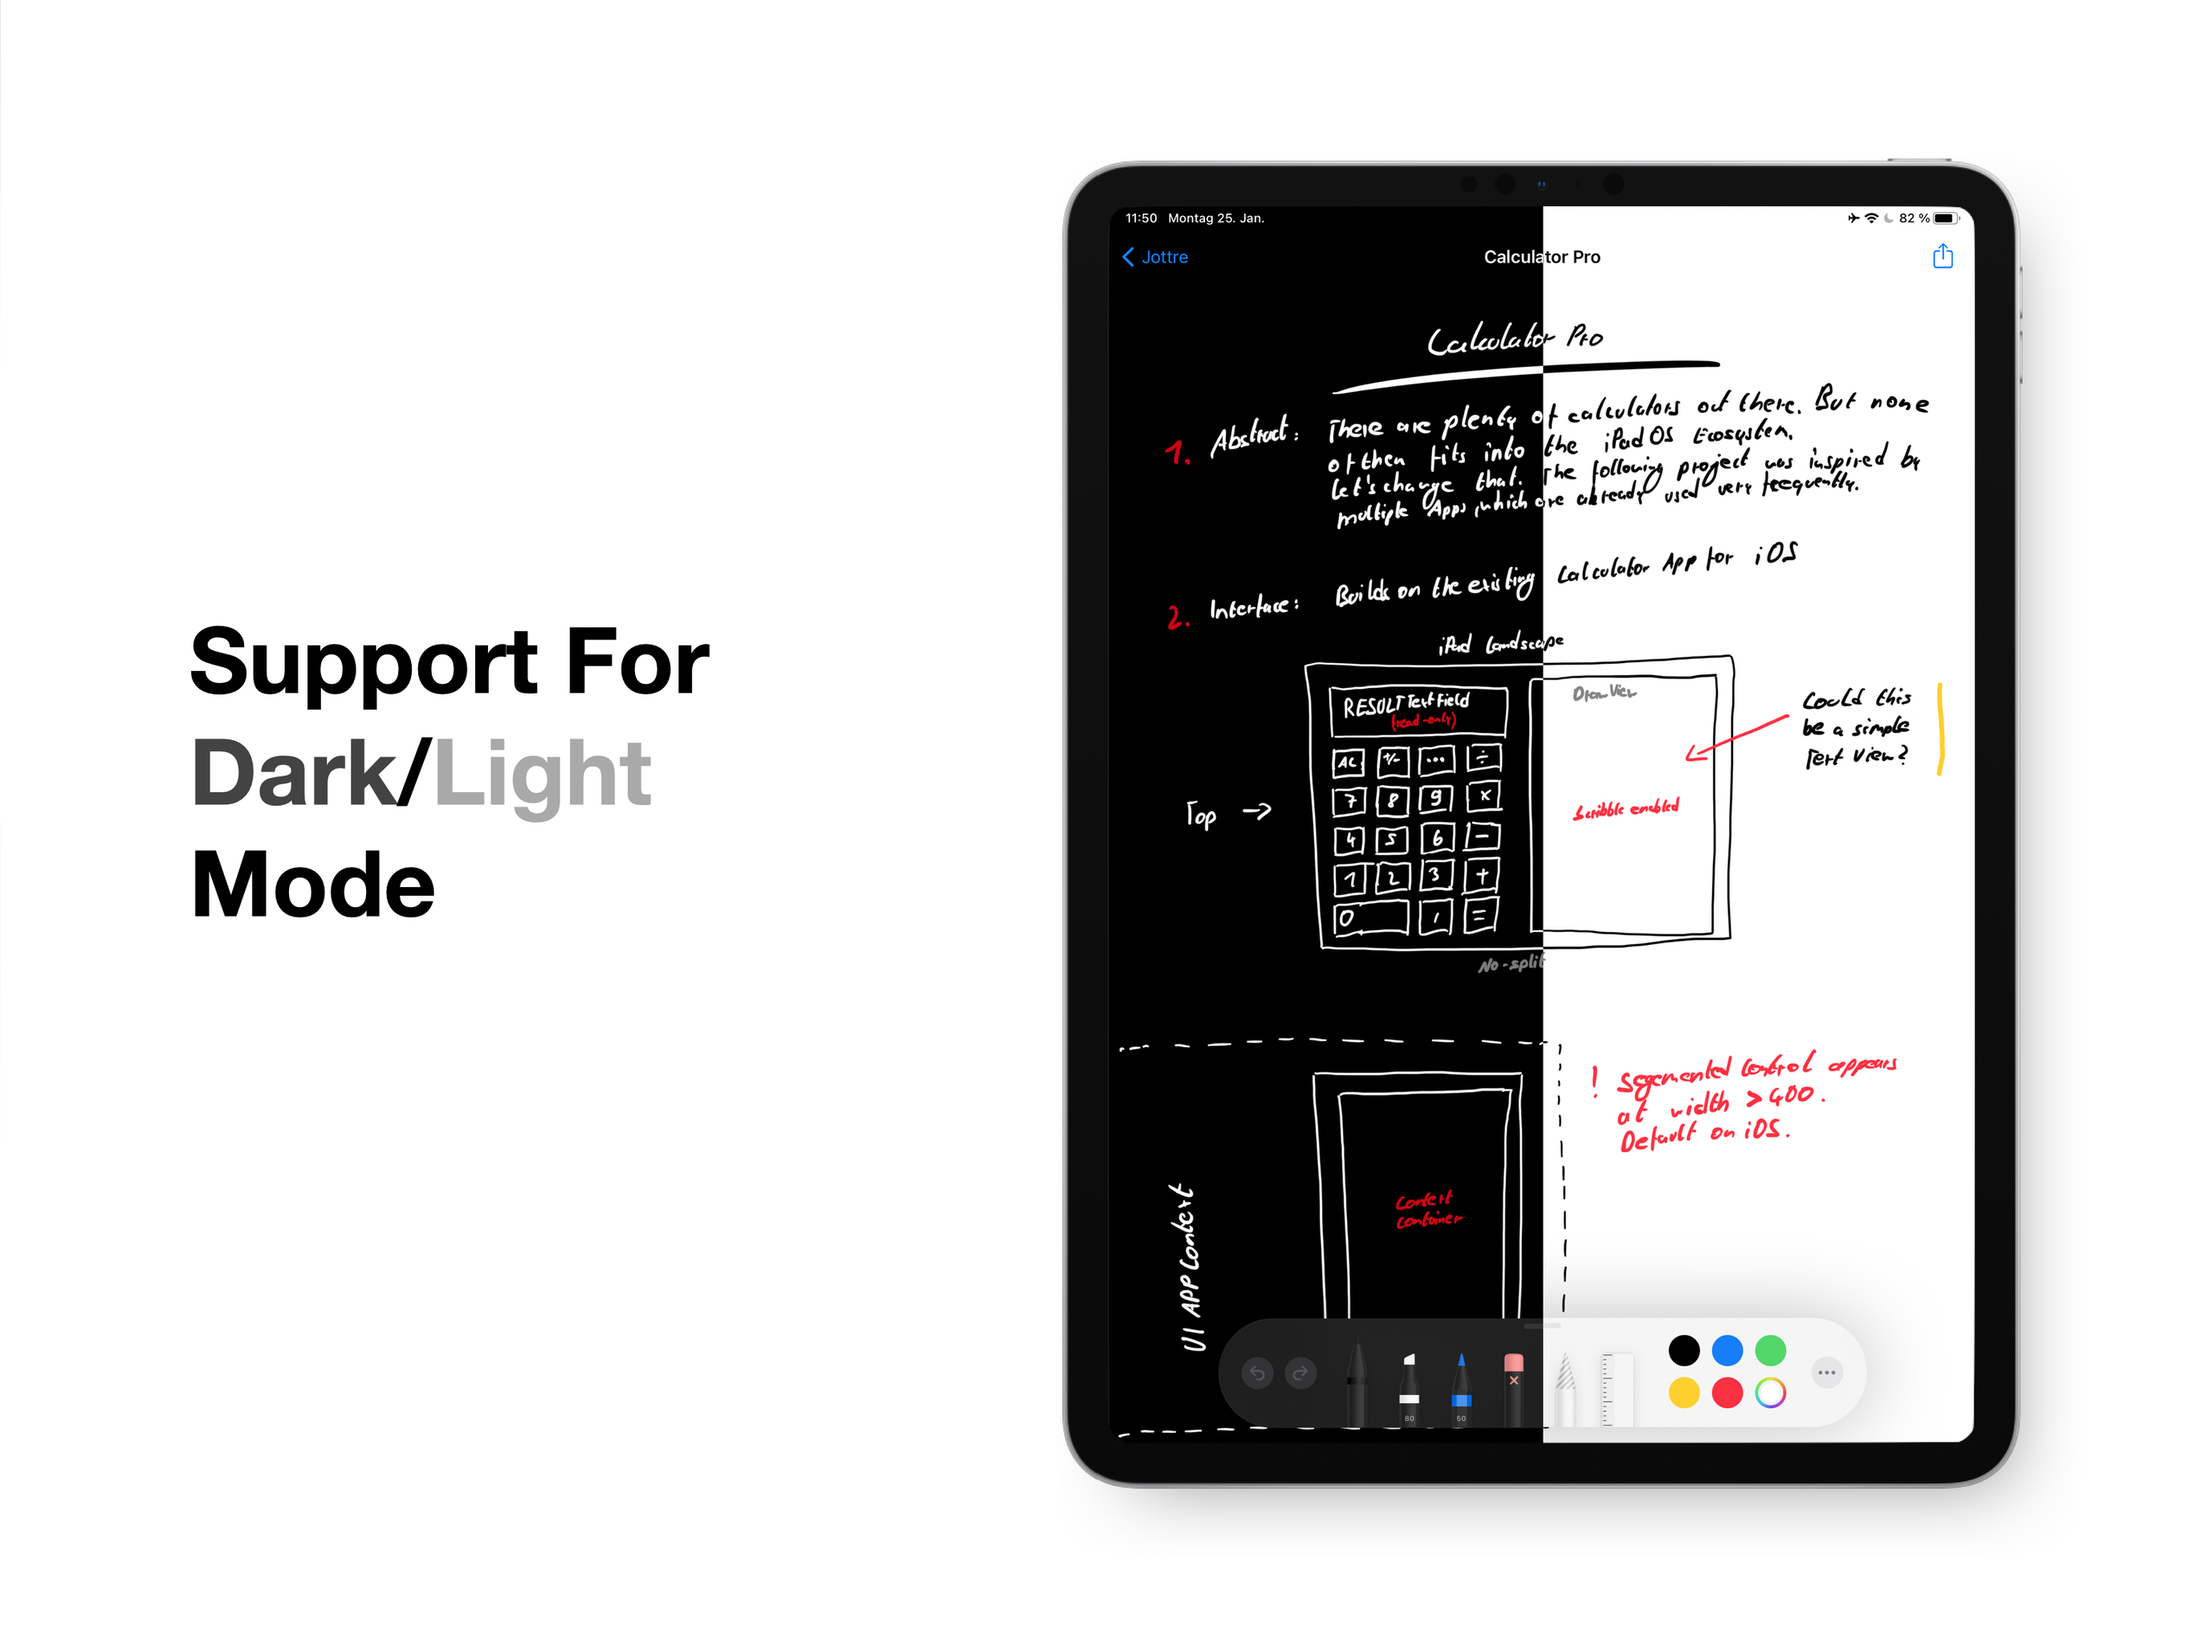
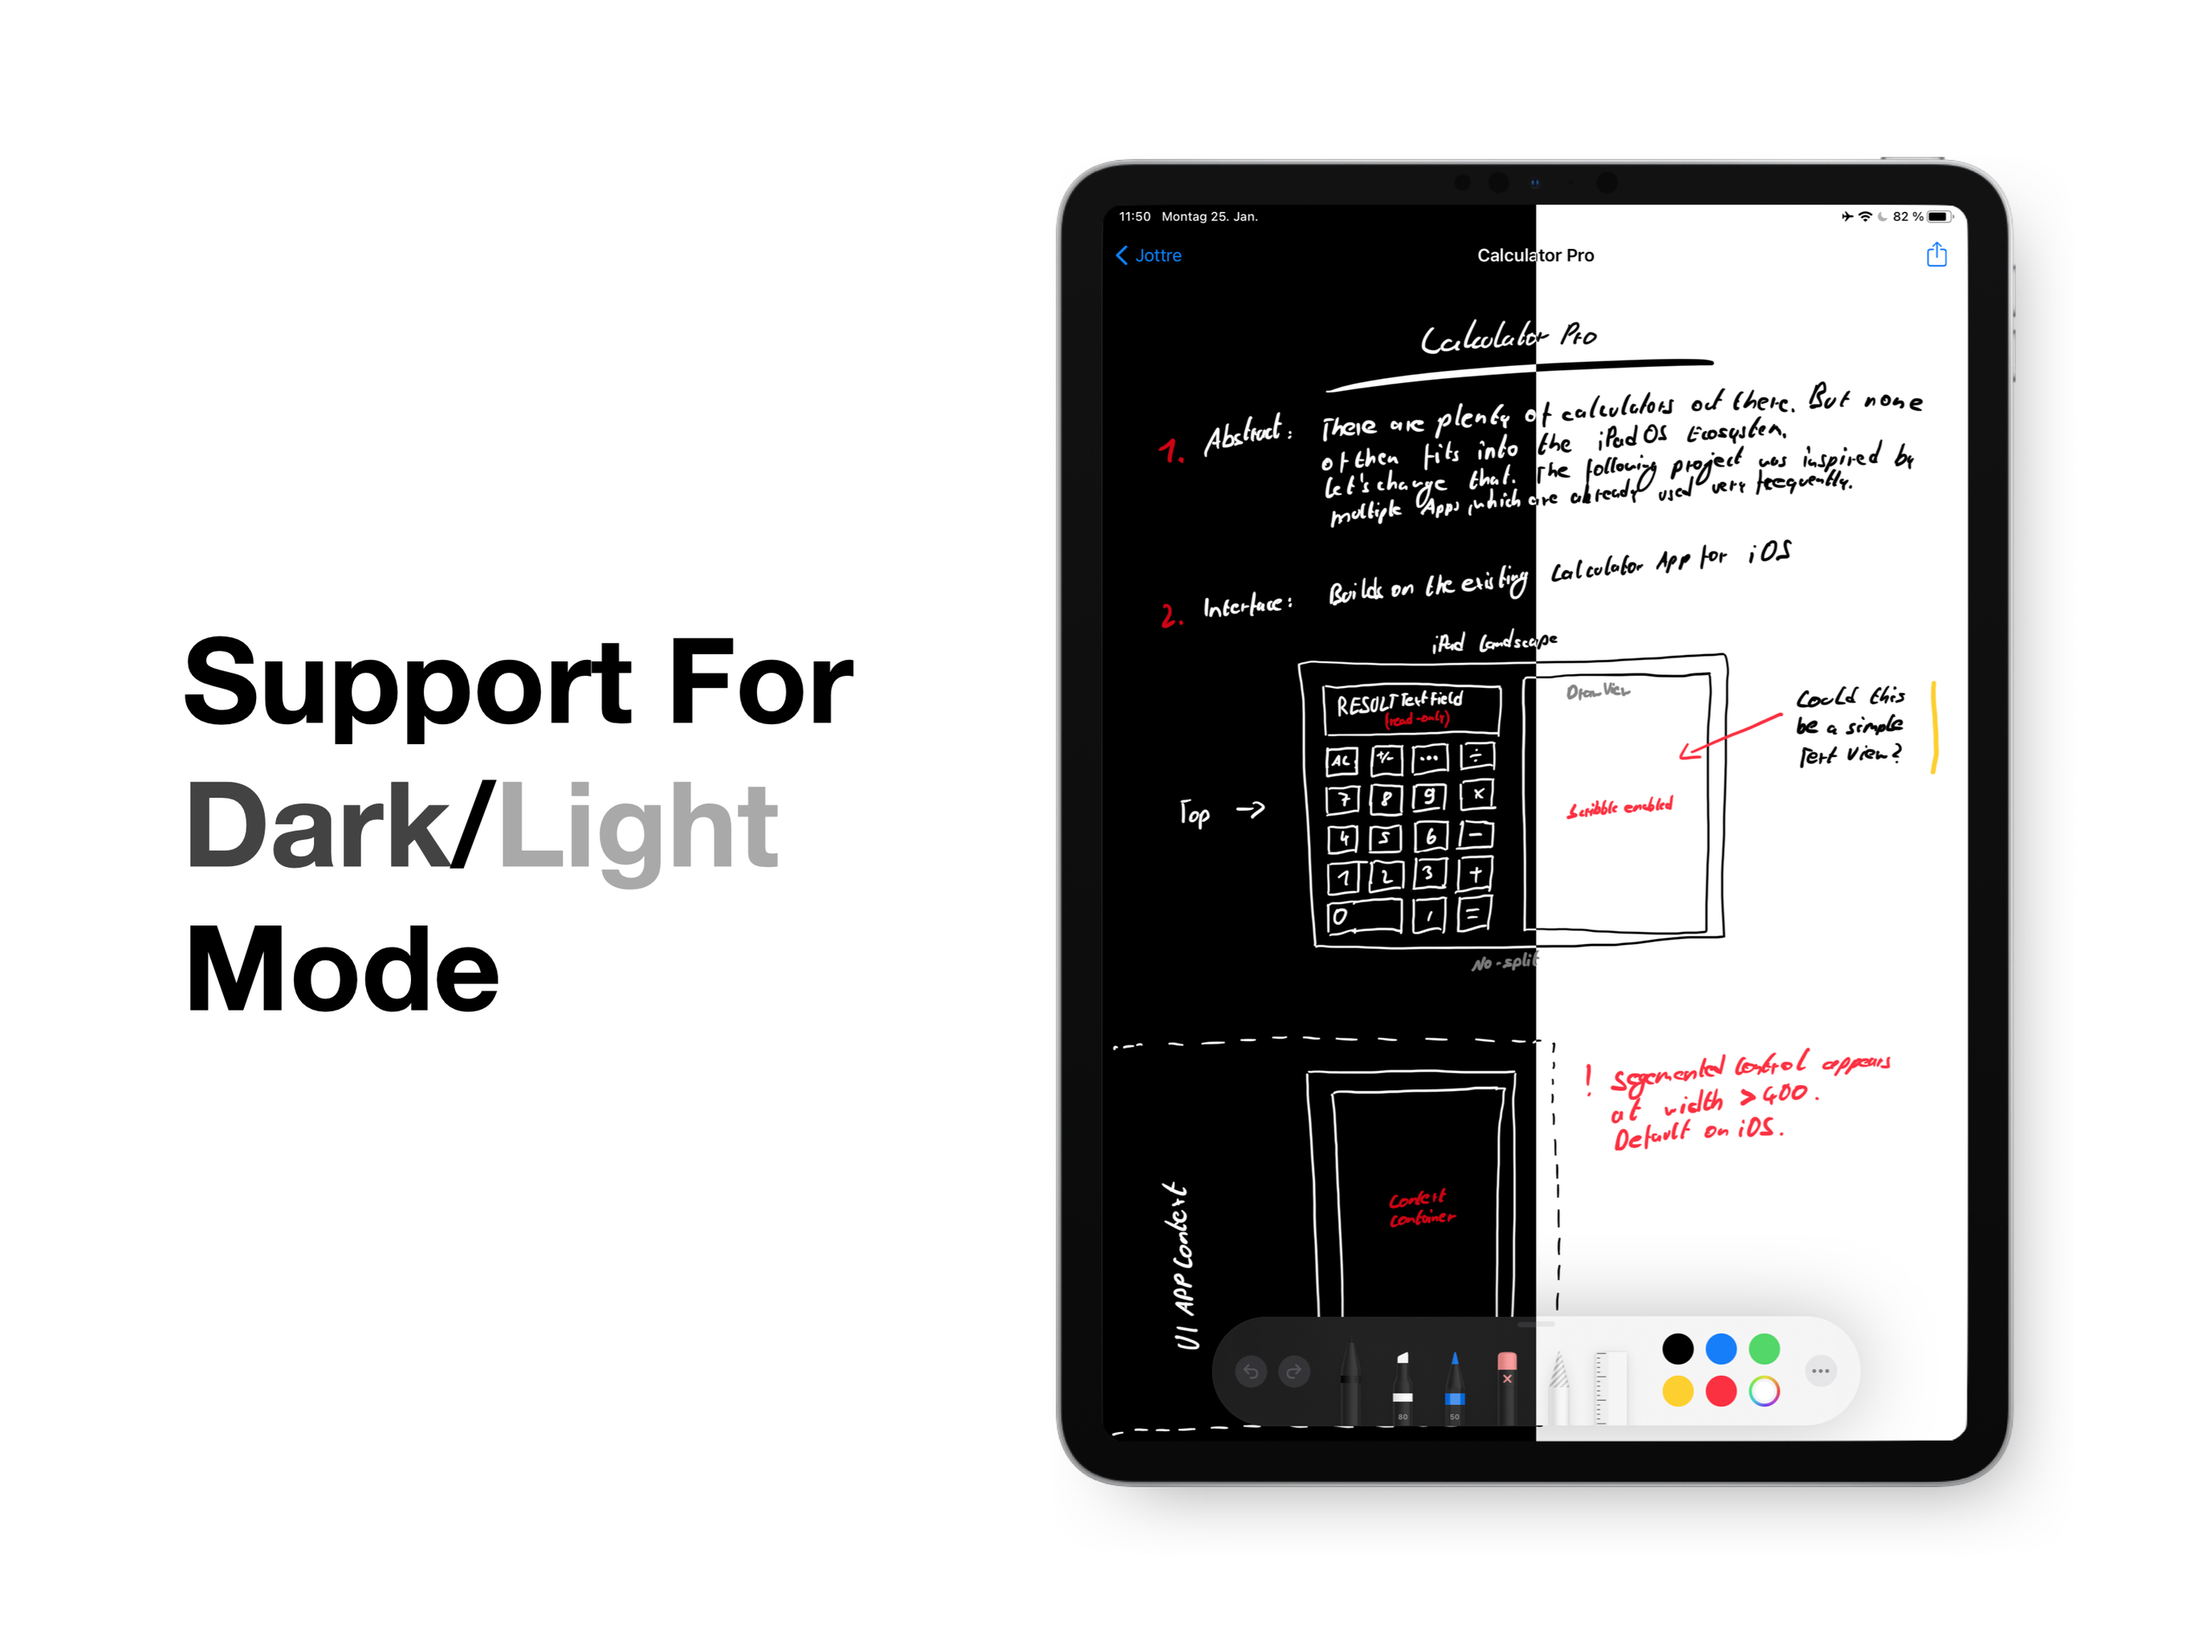
Updated README, Updated images

diff --git a/README.md b/README.md
@@ -28,6 +28,10 @@ At the moment the full version of Jottre only supports iPadOS. This means that '
 ## Preview
 
 <p align="center" >
+  <img src="images/mini.jpg" style="width: calc(100% - 20px);" height=auto>
+</p>
+
+<p align="center" >
   <img src="images/cloud.jpg" style="width: calc(100% - 20px);" height=auto>
 </p>
 
@@ -43,8 +47,10 @@ At the moment the full version of Jottre only supports iPadOS. This means that '
 
 ## Known issues
 
-- [ ] Drawings are not rendered in the correct userInterfaceStyle (when starting the app)
-- [ ] iCloud synchronization is not fast enough (documents are not uploaded directly)
+- [x] Drawings are not rendered in the correct userInterfaceStyle (when starting the app)
+- [x] iCloud synchronization is not fast enough (documents are not uploaded directly)
+- [ ] Animation of CollectionViewCells (Deleting, Inserting...) not implemented
+- [ ] Deleting items takes too much time
 
 
 
